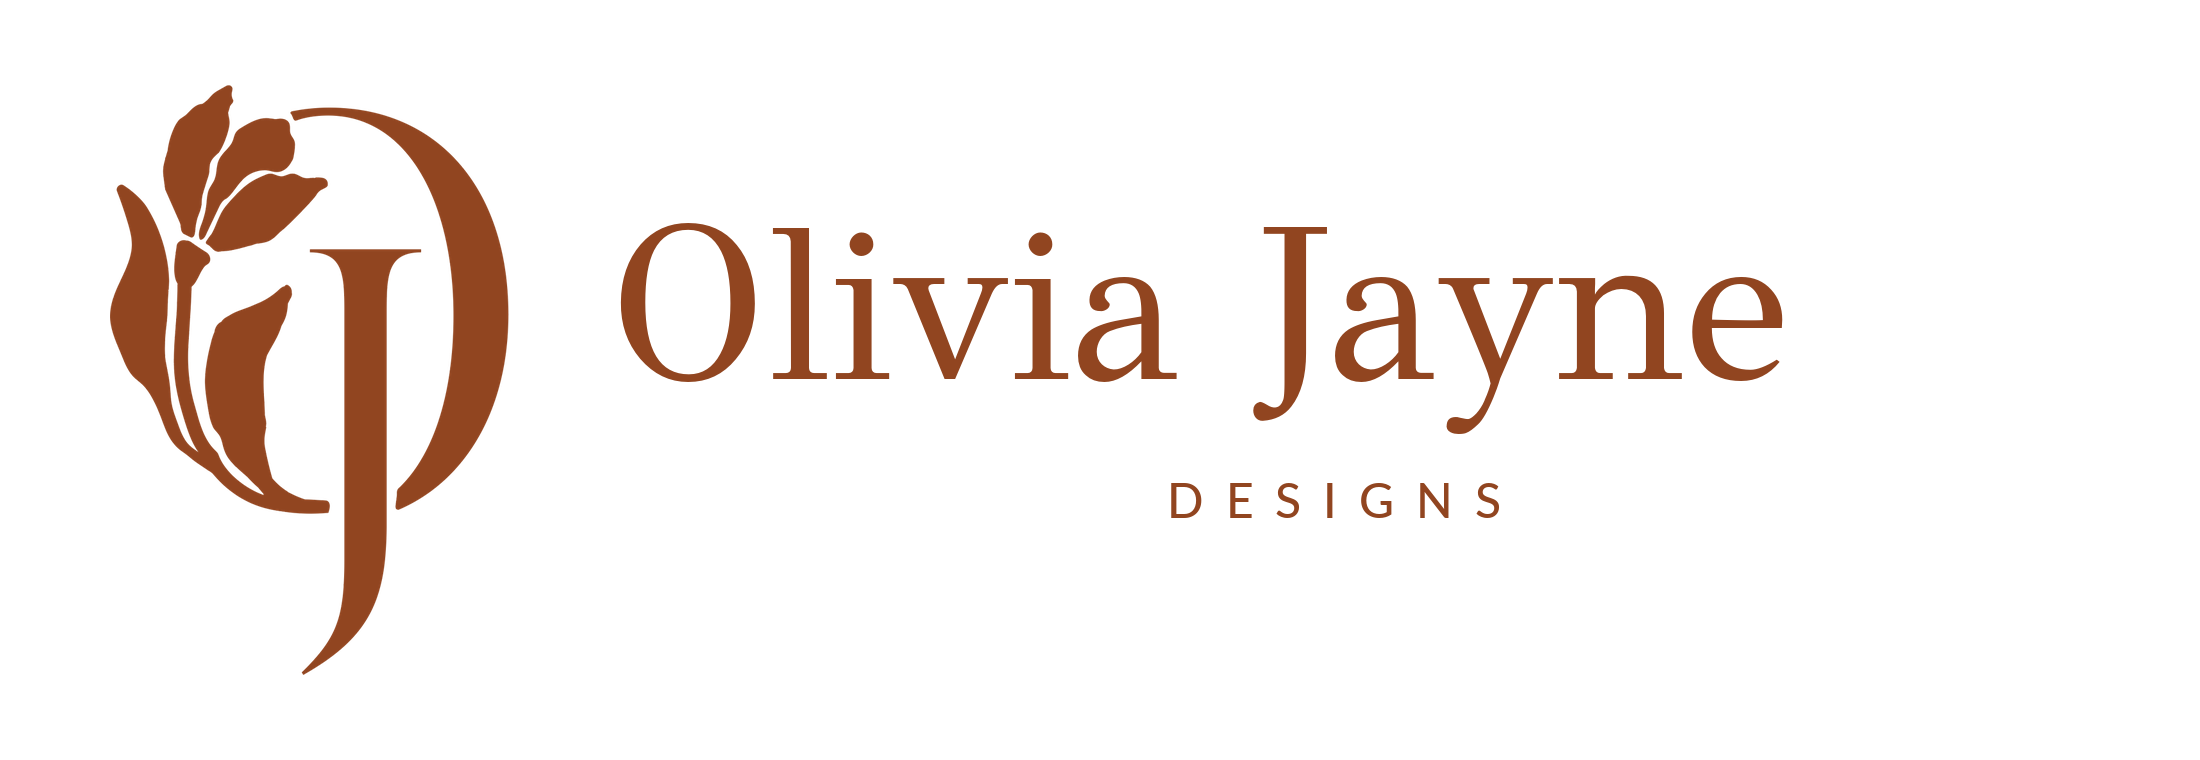
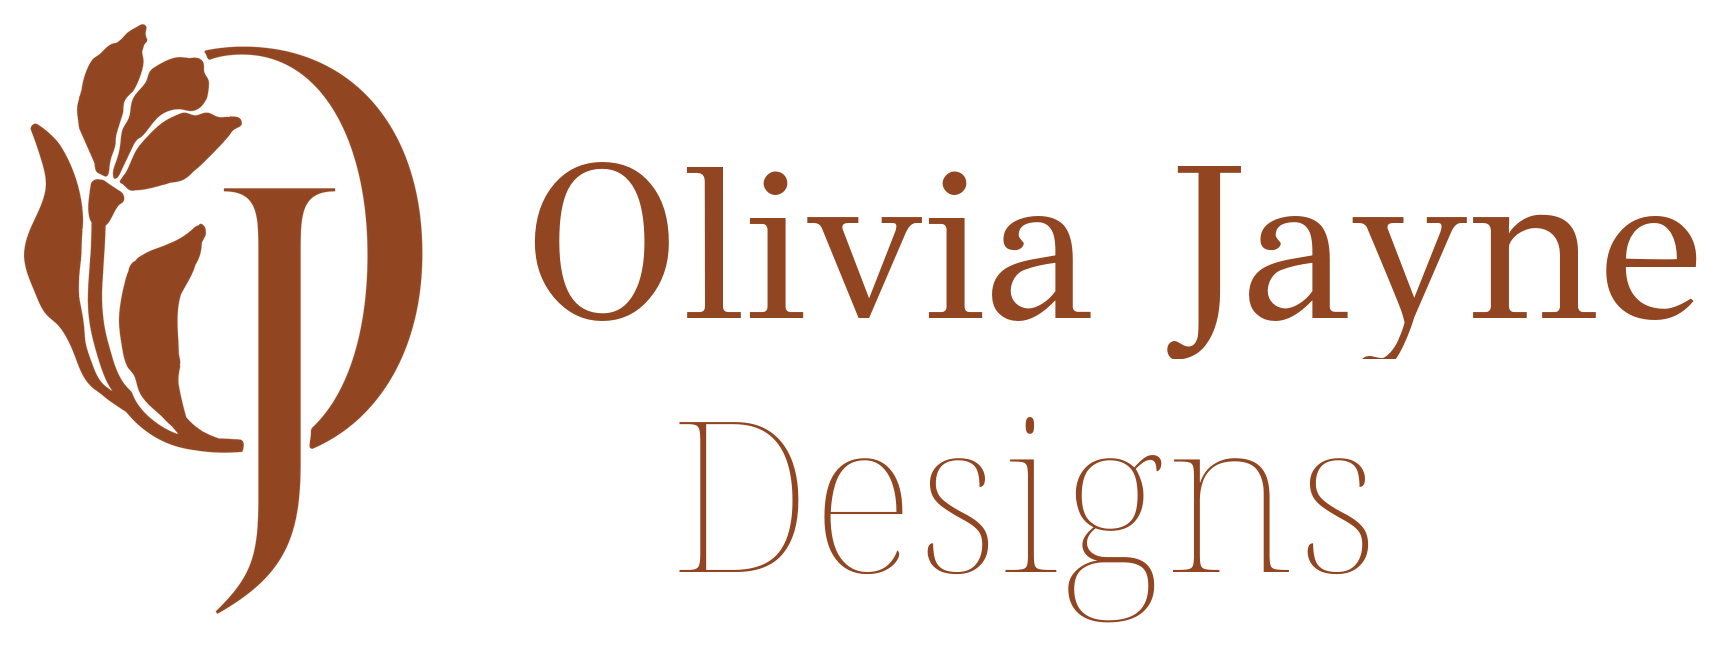
Add files via upload

diff --git a/olivia-jayne-designs/styles.css b/olivia-jayne-designs/styles.css
@@ -421,14 +421,14 @@ h1 {
 
 /* Olivia Jayne Designs identity update: use the supplied original logo artwork */
 .wordmark { display: inline-flex; align-items: center; flex: 0 0 auto; line-height: 0; }
-.wordmark img { display: block; width: 205px; height: auto; max-height: 66px; object-fit: contain; }
-.site-footer .wordmark img { width: 176px; max-height: 58px; }
+.wordmark img { display: block; width: 224px; height: auto; max-height: 74px; object-fit: contain; }
+.site-footer .wordmark img { width: 194px; max-height: 66px; }
 .about-mark { width: 150px; height: auto; border: 0; border-radius: 0; background: transparent; position: relative; margin: 0 auto; display: flex; align-items: center; justify-content: center; }
 .about-mark img { display: block; width: 100%; height: auto; max-height: 225px; object-fit: contain; filter: brightness(0) invert(1); opacity: .96; }
 .about-pattern-label { display: none; }
 @media (max-width: 760px) {
-  .wordmark img { width: 165px; max-height: 54px; }
-  .site-footer .wordmark img { width: 150px; max-height: 48px; }
+  .wordmark img { width: 188px; max-height: 62px; }
+  .site-footer .wordmark img { width: 168px; max-height: 56px; }
   .about-mark { width: 118px; height: auto; margin: 0 0 0 auto; }
   .about-mark img { max-height: 175px; }
 }
